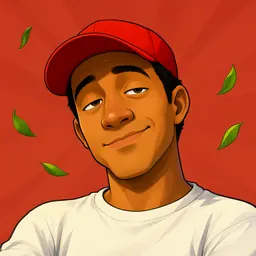
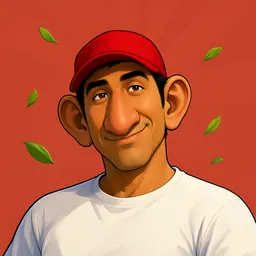
Retratos y muñecos corregidos según la pandilla
Randall el Cebollas flaco y canoso; Coconitas alto y narizón; Jorsi blanco, sin barba,
camiseta negra y Les Paul cherry; Calín narizón, orejón y de ojitos juntos; Morly menos
gordo; Chete flaco, fit y casi calvo con rizos a los lados; Sap Heinz blanco de pelo
negro con bigotito; Raulín menos gordito y con pelo chirizo.

Claude-Session: https://claude.ai/code/session_01HN3xk9krfcrwq95wq7vuzq

diff --git a/src/game/models.ts b/src/game/models.ts
@@ -72,32 +72,32 @@ export function mergeParts(root:TransformNode,recursive=true,keep:TransformNode[
 // Stylised caricatures. Traits marked «confirmed» come from Jorsi; the rest are artistic choices
 // to tell the nine apart at a glance (see outputs/referencias-personajes.md).
 type Smile='grin'|'smirk'|'flat'|'wide'|'open';
-interface Look { skin:string; hair:string; head:[number,number,number]; eyes:number; brow:number; browTilt:number; haircut:'crop'|'side'|'spike'|'quiff'|'buzz'|'curly'|'up';
+interface Look { skin:string; hair:string; head:[number,number,number]; eyes:number; brow:number; browTilt:number; haircut:'crop'|'side'|'spike'|'quiff'|'buzz'|'curly'|'up'|'balding';
  /** Torso height / width multipliers and extra neck — Semilla tall, Sap Heinz thin, Enanonitas short. */ height:number; width:number; neck:number;
  cheeks:number; ears:number; nose:number; smile:Smile; beard?:'full'|'short'|'goatee'; moustache?:'thick'|'thin'; }
 const LOOKS:Record<string,Look>={
  // Semilla: the tallest of the gang (confirmed). Long face, short beard, half smile.
  semilla:{skin:'#c88b68',hair:'#2e2525',head:[.96,1.14,.94],eyes:.16,brow:.06,browTilt:.04,haircut:'crop',height:1.22,width:.94,neck:.2,cheeks:.04,ears:.21,nose:.25,smile:'smirk',beard:'short',moustache:'thick'},
  // Morly: the darkest skin of the group (confirmed), light cap, big grin, beard and moustache.
- morly:{skin:'#7d4e33',hair:'#1f1a1b',head:[1.1,1.02,.98],eyes:.15,brow:.0,browTilt:-.04,haircut:'crop',height:1,width:1.05,neck:0,cheeks:.04,ears:.42,nose:.3,smile:'grin',beard:'short',moustache:'thick'},
+ morly:{skin:'#7d4e33',hair:'#1f1a1b',head:[1.1,1.02,.98],eyes:.15,brow:.0,browTilt:-.04,haircut:'crop',height:1,width:.95,neck:0,cheeks:.04,ears:.42,nose:.3,smile:'grin',beard:'short',moustache:'thick'},
  // Chete: the only one with big round cheeks (confirmed). Side part, confident smile, gold chain.
- chete:{skin:'#d3a07c',hair:'#332c25',head:[1.08,1.02,.98],eyes:.15,brow:-.04,browTilt:.06,haircut:'side',height:.98,width:1.1,neck:-.04,cheeks:.36,ears:.2,nose:.24,smile:'wide'},
+ chete:{skin:'#d3a07c',hair:'#332c25',head:[1.0,1.06,.97],eyes:.15,brow:-.04,browTilt:.06,haircut:'balding',height:.98,width:.86,neck:-.04,cheeks:.04,ears:.2,nose:.24,smile:'wide'},
  // Coconitas: basketball player look — spiky hair, sweatband, open laugh.
- coconitas:{skin:'#b37c59',hair:'#292b30',head:[.94,1.12,.96],eyes:.17,brow:.11,browTilt:.08,haircut:'spike',height:1.08,width:1,neck:.06,cheeks:.04,ears:.21,nose:.25,smile:'open'},
+ coconitas:{skin:'#b37c59',hair:'#292b30',head:[.92,1.18,.96],eyes:.17,brow:.11,browTilt:.08,haircut:'spike',height:1.22,width:1,neck:.06,cheeks:.04,ears:.21,nose:.52,smile:'open'},
  // Calín: big ears and big nose (confirmed), white shirt and red cap (confirmed), serious brow.
- calin:{skin:'#c59576',hair:'#2b2522',head:[.96,1.1,.95],eyes:.17,brow:.02,browTilt:-.1,haircut:'up',height:1.02,width:.98,neck:.04,cheeks:.04,ears:.36,nose:.42,smile:'flat'},
+ calin:{skin:'#c59576',hair:'#2b2522',head:[.96,1.1,.95],eyes:.115,brow:.02,browTilt:-.1,haircut:'up',height:1.02,width:.98,neck:.04,cheeks:.04,ears:.56,nose:.56,smile:'flat'},
  // Sap Heinz: very thin (confirmed): narrow long face, thin neck and body, lighter skin and hair.
- 'sap-heinz':{skin:'#e0b896',hair:'#7a5536',head:[.82,1.2,.86],eyes:.15,brow:-.04,browTilt:.05,haircut:'side',height:1.1,width:.74,neck:.12,cheeks:.04,ears:.2,nose:.27,smile:'smirk'},
+ 'sap-heinz':{skin:'#e0b896',hair:'#1d1a1a',head:[.82,1.2,.86],eyes:.15,brow:-.04,browTilt:.05,haircut:'side',height:1.1,width:.74,neck:.12,cheeks:.04,ears:.2,nose:.27,smile:'smirk',moustache:'thin'},
  // Enanonitas: compact build (artistic reading of the nickname, pending confirmation), hair up, thin moustache, wide smile.
- enanonitas:{skin:'#c18b6e',hair:'#292326',head:[1.1,.98,.96],eyes:.18,brow:.08,browTilt:.02,haircut:'up',height:.84,width:1.04,neck:-.08,cheeks:.04,ears:.22,nose:.26,smile:'wide',moustache:'thin'},
+ enanonitas:{skin:'#c18b6e',hair:'#bdb6ad',head:[.92,1.08,.94],eyes:.18,brow:.08,browTilt:.02,haircut:'up',height:.84,width:.8,neck:-.08,cheeks:.02,ears:.22,nose:.26,smile:'wide',moustache:'thin'},
  // Jorsi: the artist — quiff, pencil behind the ear, paint on the shirt.
- jorsi:{skin:'#c58f71',hair:'#302b2a',head:[.99,1.06,.98],eyes:.16,brow:.1,browTilt:.03,haircut:'quiff',height:1.04,width:.98,neck:.02,cheeks:.04,ears:.21,nose:.25,smile:'grin',beard:'goatee'},
+ jorsi:{skin:'#f1d2b8',hair:'#302b2a',head:[.99,1.06,.98],eyes:.16,brow:.1,browTilt:.03,haircut:'quiff',height:1.04,width:.98,neck:.02,cheeks:.04,ears:.21,nose:.25,smile:'grin'},
  // Roman (Romie): full dark beard and moustache, short curly hair, red polo (from his photo).
  roman:{skin:'#d6a382',hair:'#1f1815',head:[1,1.08,.97],eyes:.16,brow:.07,browTilt:.05,haircut:'curly',height:1.05,width:1.02,neck:.02,cheeks:.04,ears:.21,nose:.3,smile:'smirk',beard:'full',moustache:'thick'},
  // Cucukis: very thin, fair skin, narrow eyes; sailor hat and sailor top.
  cucukis:{skin:'#f2d3ba',hair:'#5c4331',head:[.84,1.14,.9],eyes:.15,brow:.06,browTilt:-.04,haircut:'crop',height:1.08,width:.72,neck:.12,cheeks:.04,ears:.2,nose:.24,smile:'smirk'},
  // Raulín: round face and buzz cut, easy laugh.
- raulin:{skin:'#c39479',hair:'#392d27',head:[1.14,1.04,.96],eyes:.18,brow:-.03,browTilt:0,haircut:'buzz',height:.98,width:1.08,neck:-.02,cheeks:.04,ears:.23,nose:.28,smile:'open'},
+ raulin:{skin:'#c39479',hair:'#392d27',head:[1.04,1.06,.96],eyes:.18,brow:-.03,browTilt:0,haircut:'curly',height:.98,width:.96,neck:-.02,cheeks:.04,ears:.23,nose:.28,smile:'open'},
 };
 const aimTemp=new Quaternion();
 /** Points a pilot's arm (a shoulder pivot) along a direction in the pilot's own space; rate 1 snaps. */
@@ -141,15 +141,19 @@ export function buildCharacter(scene:Scene,id:string,parent:TransformNode){
  else if(f.smile==='smirk'){tube(scene,head,'mouth-line',[[-.13,1.0,mz+.03],[.02,.985,mz+.04],[.15,1.03,mz+.02]],.03,'#542c31');}
  else tube(scene,head,'mouth-line',[[-.12,1.0,mz+.03],[.12,1.0,mz+.03]],.03,'#542c31');
  // Hair.
- const crown=f.haircut==='buzz'?sphere(scene,head,'hair-crown',0,1.5,-.06,.9,f.hair,new Vector3(1.0*hx,.5,.94)):sphere(scene,head,'hair-crown',0,1.55,-.055,.86,f.hair,new Vector3(1.01*hx,.58,.92));
+ const crown=f.haircut==='balding'?sphere(scene,head,'hair-crown',0,1.2,-.3,.8,f.hair,new Vector3(1.02*hx,.45,.6)):f.haircut==='buzz'?sphere(scene,head,'hair-crown',0,1.5,-.06,.9,f.hair,new Vector3(1.0*hx,.5,.94)):sphere(scene,head,'hair-crown',0,1.55,-.055,.86,f.hair,new Vector3(1.01*hx,.58,.92));
  if(f.haircut==='side'||f.haircut==='quiff'){sphere(scene,head,'hair-lock',-.18*hx,1.62,.22,.48,f.hair,new Vector3(1.3,.45,.6));crown.rotation.z=.08;}
  if(f.haircut==='quiff')sphere(scene,head,'hair-quiff',.02,1.78,.18,.5,f.hair,new Vector3(1.1,.6,.8));
  if(f.haircut==='spike')for(let i=0;i<5;i++){const tuft=cylinder(scene,head,'hair-tuft',(i-2)*.13*hx,1.78,-.06,.32,.2,f.hair,.015);tuft.rotation.z=(i-2)*-.14;}
  if(f.haircut==='up')for(let i=0;i<4;i++){const tuft=cylinder(scene,head,'hair-tuft',(i-1.5)*.13*hx,1.74,.08,.26,.22,f.hair,.05);tuft.rotation.x=-.35;}
  if(f.haircut==='crop')sphere(scene,head,'hair-fringe',0,1.6,.24,.5,f.hair,new Vector3(1.4*hx,.3,.5));
+ // Balding: a shiny top and a low ring of tight curls around the sides and back.
+ if(f.haircut==='balding')for(let i=0;i<12;i++){const a=Math.PI*(-.06+i*1.12/11);sphere(scene,head,'hair-curl',Math.cos(a)*.47*hx,1.32+Math.sin(i*1.7)*.04,Math.sin(a)*-.42-.02,.24,f.hair);}
  if(f.haircut==='curly')for(let i=0;i<16;i++){const a=i*2.399,r=.12+((i*.37)%1)*.26;sphere(scene,head,'hair-curl',Math.cos(a)*r*hx,1.66+Math.cos(r*4)*.05-(r>.3?.05:0),-.05+Math.sin(a)*r*.9+.04,.26,f.hair);}
  if(c.cap){sphere(scene,head,'cap-crown',0,1.64,-.035,.91,c.cap,new Vector3(1.03*hx,.47,.95));const brim=box(scene,head,'cap-brim',0,1.58,.4,.7,.055,.54,c.cap);brim.rotation.x=.1;box(scene,head,'cap-badge',0,1.68,.41,.18,.13,.025,c.id==='calin'?'#fff9e9':'#e8b52b');}
  // Cucukis: narrow eyes (squashed whites, half lids) and a white sailor hat with a navy band.
+ // Calín: small eyes, close together.
+ if(c.id==='calin')for(const m of head.getChildMeshes())if(/^(eye-white|iris|pupil|eye-glint)/.test(m.name))m.scaling.scaleInPlace(.72);
  if(c.id==='cucukis'){for(const m of head.getChildMeshes())if(/^(eye-white|iris|pupil|eye-glint)/.test(m.name))m.scaling.y*=.5;for(const x of [-f.eyes,f.eyes])sphere(scene,head,'eyelid',x*hx,1.335,.43*hz,.23,f.skin,new Vector3(.9,.42,.5));
   sphere(scene,head,'sailor-hat-crown',0,1.7,-.04,.96,'#f7f7f2',new Vector3(1.02*hx,.5,1));const rim=torus(scene,head,'sailor-hat-rim',0,1.6,-.04,.98*hx,.15,'#f7f7f2');rim.scaling.y=.75;const band=torus(scene,head,'sailor-hat-band',0,1.66,-.04,.9*hx,.05,'#1d3a7a');band.scaling.y=.6;}
  // Morly «Kong»: a little monkey face — light muzzle, wide flat nose with nostrils, heavy brow and round ears.

diff --git a/shared/content.ts b/shared/content.ts
@@ -8,7 +8,7 @@ export const CHARACTERS: CharacterDefinition[] = [
  { id:'calin',name:'Calín',initials:'CA',color:'#df5c51',shirt:'#fff9e9',cap:'#d73e39',basics:[a('Una hoja','leaf','🌿',1,'slow'),a('Dos hojas','leaf','🌿',2,'slow'),a('Tres hojas','leaf','🌿',3,'slow')],special:a('Ármate 1','smoke','☁',1,'smoke','area') },
  { id:'sap-heinz',name:'Sap Heinz',initials:'SH',color:'#84b967',shirt:'#84b967',basics:[a('Un sapito','frog','🐸'),a('Dos sapitos','frog','🐸',2),a('Tres sapitos','frog','🐸',3)],special:a('Pizza de la rotonda','pizza','🍕',1,'stun') },
  { id:'enanonitas',name:'Enanonitas',initials:'EN',color:'#bf8873',shirt:'#ab4944',basics:[a('Una cebolla','onion','🧅',1,'slow'),a('Dos cebollas','onion','🧅',2,'slow'),a('Tres cebollas','onion','🧅',3,'slow')],special:a('Yo te invoco, Claudia Salinas','claudia','🧅',6,'stun') },
- { id:'jorsi',name:'Jorsi',initials:'JO',color:'#66b5c0',shirt:'#317e91',basics:[a('Plumazo de pintura','brush','🖌',1,'paint'),a('Lápiz con resorte','pencil','✏'),a('Borrador volador','eraser','▰',1,'spin','boomerang')],special:a('Yo te pinto la mochila','backpack','🎒',1,'stun') },
+ { id:'jorsi',name:'Jorsi',initials:'JO',color:'#66b5c0',shirt:'#1d1d22',basics:[a('Plumazo de pintura','brush','🖌',1,'paint'),a('Lápiz con resorte','pencil','✏'),a('Borrador volador','eraser','▰',1,'spin','boomerang')],special:a('Yo te pinto la mochila','backpack','🎒',1,'stun') },
  { id:'roman',name:'Roman',initials:'RO',color:'#d9435b',shirt:'#d84a45',beard:true,basics:[a('Tenedor para nacatamal','fork','🍴'),a('Control de play que explota','gamepad','🎮',1,'spin'),a('La ternerita…','calf','🐄',1,'spin','bounce')],special:a('Moonwalk de Michael Jackson (Bailado por Romie)','moonwalk','🕺',1,'stun','area') },
  { id:'cucukis',name:'Cucukis',initials:'CU',color:'#3f8cff',shirt:'#2f6fd0',basics:[a('Midamos mesas','table','🍺'),a('Bombazo de los Beatles','bomb','💣'),a('Megabombazo de los Beatles','megabomb','💥')],special:a('Invocación de Peeerrrrisss','peers','💃',7,'stun') },
  { id:'raulin',name:'Raulín',initials:'RA',color:'#909fc6',shirt:'#58759d',basics:[a('Un pepino','cucumber','🥒'),a('Dos pepinos','cucumber','🥒',2),a('Tres pepinos','cucumber','🥒',3)],special:a('Balde de leche','milk','🥛',1,'stun','area') },

diff --git a/scripts/art/README.md b/scripts/art/README.md
@@ -5,4 +5,4 @@
 
 - `imagenes.py` encola cada imagen por la API de ComfyUI y la guarda en `ComfyUI_Clean/output/morly/` (se salta las que existen).
 - `GENERAR-TODO.command` (doble clic en el Mac) genera primero las voces que falten con Qwen3-TTS y después el arte; apaga los servidores al terminar.
-- Elegidas: `icon-s11`, `cover-s7`, `world-*-s5`, `pilot-*-s3`. Exportadas a WebP: portada 1344×768 (q80), pistas 640×366 (q74), retratos 256×256 (q76).
+- Elegidas: `icon-s11`, `cover-s7`, `world-*-s5`, `pilot-*-s3` (semilla, roman, cucukis) y `pilot-*-s8` (el resto, corregidos). Exportadas a WebP: portada 1344×768 (q80), pistas 640×366 (q74), retratos 256×256 (q76).
